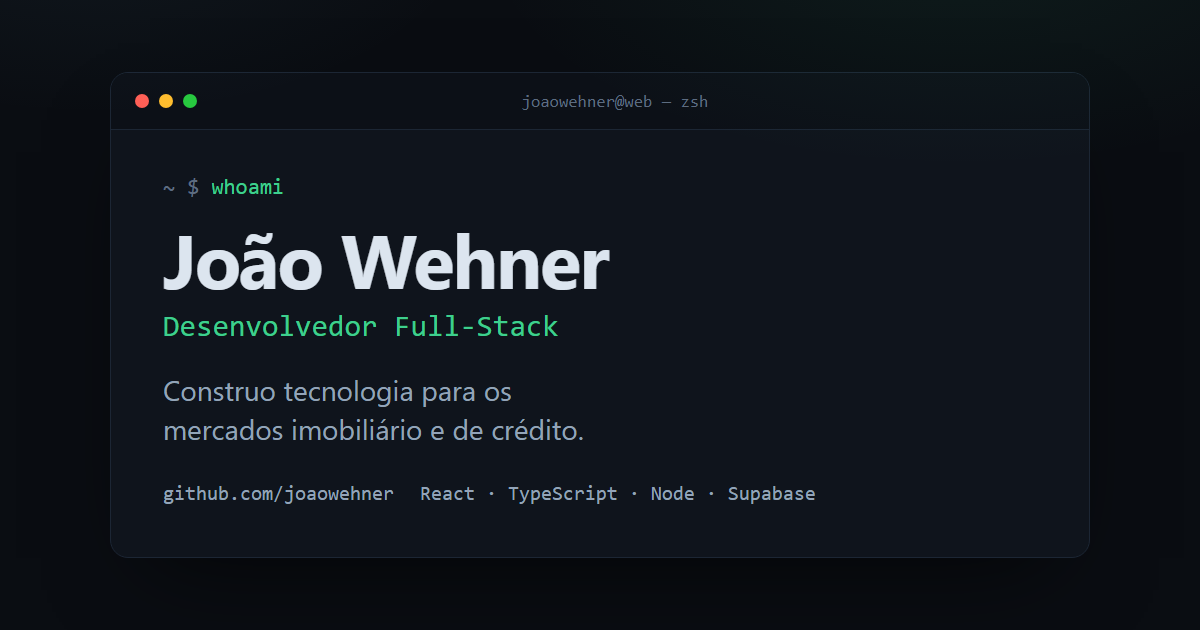
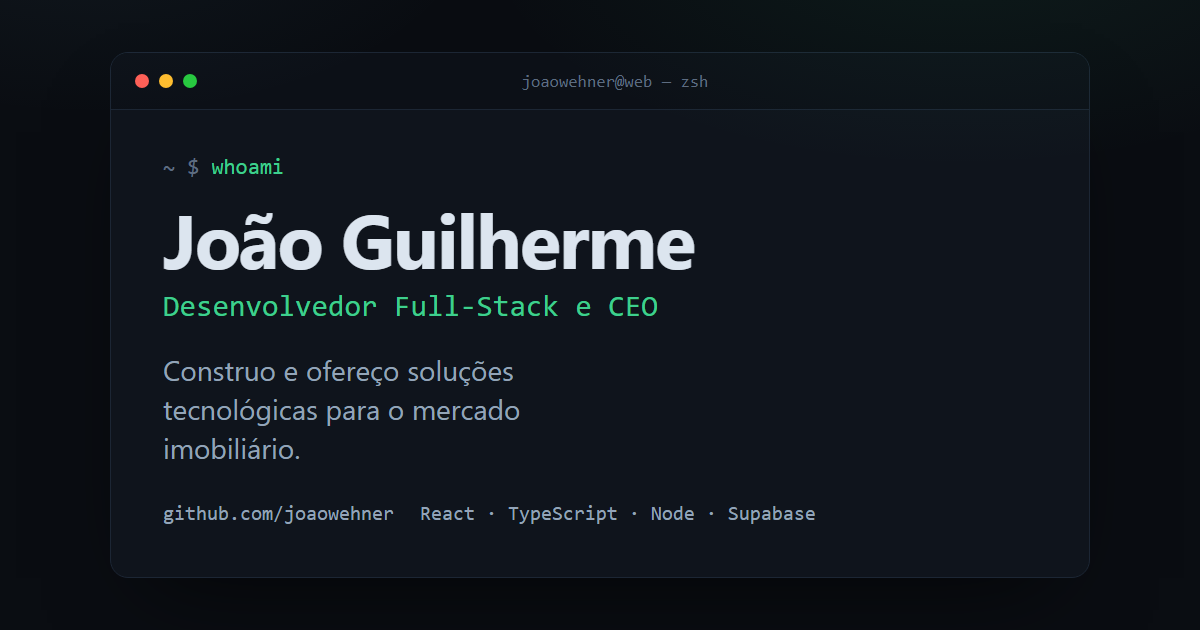
feat: reposiciona perfil como Co-CEO e adiciona contato por WhatsApp
Atualiza identidade para Joao Guilherme, Desenvolvedor Full-Stack e CEO,
com o Grupo Wehner ao lado da TSW no posicionamento, headline, metadados,
JSON-LD e imagem de compartilhamento.

Substitui o projeto TSW Decoracao pelo TSW CRM, marca este site como em
producao e reordena a stack conforme o uso real.

WhatsApp vira CTA primario da secao de contato, com o link centralizado em
profile.ts e refletido no comando contact do terminal.

diff --git a/src/data/profile.ts b/src/data/profile.ts
@@ -48,6 +48,8 @@ export interface Profile {
   company: { name: string; url: string }
   about: string[]
   email: string
+  /** Link wa.me completo; omita para esconder o CTA de WhatsApp */
+  whatsappUrl?: string
   social: SocialLink[]
   projects: Project[]
   stack: StackGroup[]
@@ -58,22 +60,23 @@ export interface Profile {
 export const profile: Profile = {
   brand: 'joaowehner',
   fullName: 'João Guilherme Wehner Ricartes',
-  displayName: 'João Wehner',
-  role: 'Desenvolvedor Full-Stack',
-  headline: 'Construo tecnologia para os mercados imobiliário e de crédito.',
+  displayName: 'João Guilherme',
+  role: 'Desenvolvedor Full-Stack e CEO',
+  headline: 'Construo e ofereço soluções tecnológicas para o mercado imobiliário.',
   subheadline:
-    'Sócio na TSW Soluções Inteligentes: os sites, as integrações e a automação de captação de leads da empresa passam pelas minhas mãos — do código ao deploy, com React, TypeScript e Node no dia a dia.',
+    'Sócio e Co-CEO no Grupo Wehner e na TSW Soluções Inteligentes. Lidero a operação e a tecnologia das empresas, cuidando dos sites, das integrações e da automação de leads, do código ao deploy com React, TypeScript e Node.',
   location: 'Campo Grande · MS, Brasil',
   company: {
     name: 'TSW Soluções Inteligentes',
     url: 'https://tswsolucoesinteligentes.com.br',
   },
   about: [
-    'Sou desenvolvedor full-stack e sócio da TSW Soluções Inteligentes, consultoria de negócios imobiliários e de crédito em Campo Grande. Ser sócio muda o jeito de programar: cada decisão técnica aqui também é uma decisão de negócio.',
-    'Na prática, isso significa dois sites em produção, uma integração que centraliza a captação de leads e fluxos de atendimento que estou automatizando com IA — tudo mantido de ponta a ponta por mim, do layout ao deploy.',
-    'Este site é parte do trabalho: construído do zero com React e TypeScript, sem template, com o código aberto no GitHub.',
+    'Sou desenvolvedor full-stack e Co-CEO na TSW Soluções Inteligentes e no Grupo Wehner, ecossistema de negócios e tecnologia imobiliária em Campo Grande. Liderar a operação muda o jeito de programar: cada decisão técnica aqui também é uma decisão de negócio.',
+    'Na prática, isso se traduz em sites em produção, integrações que centralizam a captação de leads e fluxos de atendimento automatizados com IA, tudo mantido de ponta a ponta por mim, do layout ao deploy.',
+    'Este site é parte desse ecossistema: construído do zero com React e TypeScript, sem template e com o código aberto no GitHub.',
   ],
   email: 'joaowehner@gmail.com',
+  whatsappUrl: 'https://wa.me/5567998575834',
   social: [
     {
       id: 'github',
@@ -119,7 +122,7 @@ export const profile: Profile = {
       tagline: 'O site da consultoria da qual sou sócio',
       description:
         'Presença digital da TSW: serviços, metodologia e captação de clientes para consultoria de negócios imobiliários, crédito e curadoria de investimentos.',
-      role: 'Desenvolvimento completo — do layout ao deploy',
+      role: 'Desenvolvimento completo, do layout ao deploy',
       tech: ['HTML', 'CSS', 'JavaScript', 'Hostinger'],
       status: 'em produção',
       url: 'https://tswsolucoesinteligentes.com.br',
@@ -131,24 +134,23 @@ export const profile: Profile = {
       name: 'TSW Leads API Bridge',
       tagline: 'Captação de leads sem distribuição manual',
       description:
-        'Integração em Node que centraliza leads do site, de formulários e de campanhas e os entrega direto ao fluxo comercial da TSW — o time recebe, ninguém redistribui na mão.',
+        'Integração em Node que centraliza leads do site, de formulários e de campanhas e os entrega direto ao fluxo comercial da TSW. O time recebe, ninguém redistribui na mão.',
       role: 'Arquitetura e implementação',
       tech: ['Node.js', 'JavaScript', 'APIs REST'],
       status: 'privado',
-      footerNote: 'código privado — detalhes sob conversa',
+      footerNote: 'código privado, detalhes sob conversa',
     },
     {
-      id: 'tsw-decoracao',
-      path: '~/projects/tsw-decoracao',
-      name: 'TSW Decoração',
-      tagline: 'Decoração estratégica e staging para valorização de imóveis',
+      id: 'tsw-crm',
+      path: '~/projects/tsw-crm',
+      name: 'TSW CRM',
+      tagline: 'CRM completo para a operação imobiliária da TSW',
       description:
-        'Site da vertical de decoração da TSW: projetos de interiores, curadoria de mobiliário e posicionamento de imóveis para venda, locação e temporada.',
-      role: 'Desenvolvimento completo — design, conteúdo e deploy',
-      tech: ['HTML', 'CSS', 'JavaScript', 'Vercel'],
+        'Sistema de gestão comercial sob medida para o Grupo Wehner: pipeline de vendas, acompanhamento de clientes, integração com captação de leads e automações internas.',
+      role: 'Arquitetura, desenvolvimento e produto',
+      tech: ['React', 'TypeScript', 'Node.js', 'Supabase'],
       status: 'em evolução',
-      url: 'https://tsw-decoracao-preview.vercel.app',
-      urlLabel: 'tsw-decoracao-preview.vercel.app',
+      footerNote: 'em desenvolvimento',
     },
     {
       id: 'joaowehner-site',
@@ -159,7 +161,7 @@ export const profile: Profile = {
         'Página única em React 19 + TypeScript strict, CSS autoral com design tokens e terminal interativo testado. Lighthouse 99·100·100·100 e deploy contínuo no GitHub Pages.',
       role: 'Design e desenvolvimento completos',
       tech: ['React', 'TypeScript', 'Vite', 'GitHub Actions'],
-      status: 'em evolução',
+      status: 'em produção',
       url: 'https://github.com/joaowehner/joaowehner.github.io',
       urlLabel: 'código no GitHub',
     },
@@ -169,13 +171,13 @@ export const profile: Profile = {
       id: 'principal',
       title: 'principal',
       note: 'uso diário',
-      items: ['TypeScript', 'React', 'Next.js', 'Node.js', 'Supabase'],
+      items: ['HTML & CSS', 'JavaScript', 'APIs REST', 'Git & GitHub', 'Vercel', 'Hostinger', 'Supabase'],
     },
     {
       id: 'pratica',
       title: 'experiência prática',
       note: 'ferramentas do trabalho real',
-      items: ['HTML & CSS', 'JavaScript', 'APIs REST', 'Git & GitHub', 'Vercel', 'Hostinger'],
+      items: ['TypeScript', 'React', 'Next.js', 'Node.js'],
     },
     {
       id: 'explorando',

diff --git a/index.html b/index.html
@@ -3,10 +3,10 @@
   <head>
     <meta charset="UTF-8" />
     <meta name="viewport" content="width=device-width, initial-scale=1.0" />
-    <title>joaowehner — Desenvolvedor Full-Stack</title>
+    <title>joaowehner — Desenvolvedor Full-Stack e CEO</title>
     <meta
       name="description"
-      content="João Wehner — desenvolvedor full-stack e sócio na TSW Soluções Inteligentes. React, Next.js, TypeScript, Node e Supabase aplicados aos mercados imobiliário e de crédito."
+      content="João Guilherme — Desenvolvedor Full-Stack e Co-CEO no Grupo Wehner e na TSW Soluções Inteligentes. Soluções tecnológicas para o mercado imobiliário com React, TypeScript e Node."
     />
     <link rel="icon" type="image/svg+xml" href="/favicon.svg" />
     <link rel="canonical" href="https://joaowehner.github.io/" />
@@ -14,18 +14,18 @@
 
     <meta property="og:type" content="website" />
     <meta property="og:url" content="https://joaowehner.github.io/" />
-    <meta property="og:title" content="joaowehner — Desenvolvedor Full-Stack" />
+    <meta property="og:title" content="joaowehner — Desenvolvedor Full-Stack e CEO" />
     <meta
       property="og:description"
-      content="Sócio na TSW Soluções Inteligentes. Construo tecnologia para os mercados imobiliário e de crédito com React, Next.js, TypeScript, Node e Supabase."
+      content="Sócio na TSW Soluções Inteligentes. Construo e ofereço soluções tecnológicas para o mercado imobiliário com React, Next.js, TypeScript, Node e Supabase."
     />
     <meta property="og:image" content="https://joaowehner.github.io/og.png" />
     <meta property="og:locale" content="pt_BR" />
     <meta name="twitter:card" content="summary_large_image" />
-    <meta name="twitter:title" content="joaowehner — Desenvolvedor Full-Stack" />
+    <meta name="twitter:title" content="joaowehner — Desenvolvedor Full-Stack e CEO" />
     <meta
       name="twitter:description"
-      content="Sócio na TSW Soluções Inteligentes. Construo tecnologia para os mercados imobiliário e de crédito."
+      content="Sócio na TSW Soluções Inteligentes. Construo e ofereço soluções tecnológicas para o mercado imobiliário."
     />
     <meta name="twitter:image" content="https://joaowehner.github.io/og.png" />
 
@@ -35,7 +35,7 @@
         "@type": "Person",
         "name": "João Guilherme Wehner Ricartes",
         "alternateName": "joaowehner",
-        "jobTitle": "Desenvolvedor Full-Stack",
+        "jobTitle": "Desenvolvedor Full-Stack e CEO",
         "url": "https://joaowehner.github.io/",
         "worksFor": {
           "@type": "Organization",

diff --git a/src/components/Contact.tsx b/src/components/Contact.tsx
@@ -3,8 +3,6 @@ import CopyButton from './CopyButton'
 import './Contact.css'
 
 export default function Contact() {
-  const linkedin = profile.social.find((s) => s.id === 'linkedin')
-
   return (
     <section className="section container" id="contato" aria-labelledby="contato-titulo">
       <div className="contact">
@@ -14,25 +12,25 @@ export default function Contact() {
         </header>
 
         <p className="contact__text">
-          Projeto, vaga, parceria ou uma ideia para automatizar? A caixa de entrada está aberta —
-          respondo mais rápido por e-mail ou LinkedIn.
+          Projeto, parceria ou uma ideia para automatizar? A caixa de entrada está aberta,
+          respondo mais rápido por WhatsApp ou e-mail.
         </p>
 
         <div className="contact__actions">
-          <a className="contact__cta" href={`mailto:${profile.email}`}>
-            enviar e-mail
-          </a>
-          <CopyButton value={profile.email} label={`copiar ${profile.email}`} />
-          {linkedin && (
+          {profile.whatsappUrl && (
             <a
-              className="contact__secondary"
-              href={linkedin.url}
+              className="contact__cta"
+              href={profile.whatsappUrl}
               target="_blank"
               rel="noopener noreferrer"
             >
-              LinkedIn ↗
+              WhatsApp
             </a>
           )}
+          <a className="contact__secondary" href={`mailto:${profile.email}`}>
+            enviar e-mail
+          </a>
+          <CopyButton value={profile.email} label={`copiar ${profile.email}`} />
         </div>
       </div>
     </section>

diff --git a/src/terminal/commands.ts b/src/terminal/commands.ts
@@ -63,7 +63,7 @@ export const commands: TerminalCommand[] = [
     run: (p) => ({
       lines: [
         { text: p.displayName, kind: 'title' },
-        { text: `${p.role} · sócio na ${p.company.name}`, kind: 'out' },
+        { text: `${p.role} · Co-CEO no Grupo Wehner e na ${p.company.name}`, kind: 'out' },
         { text: p.location, kind: 'muted' },
       ],
     }),
@@ -124,6 +124,7 @@ export const commands: TerminalCommand[] = [
     description: 'formas de contato',
     run: (p) => ({
       lines: [
+        ...(p.whatsappUrl ? [{ text: 'whatsapp: link na seção contato', kind: 'out' as LineKind }] : []),
         { text: `e-mail: ${p.email}`, kind: 'out' },
         { text: 'navegando até #contato…', kind: 'muted' },
       ],

diff --git a/src/components/Footer.tsx b/src/components/Footer.tsx
@@ -11,7 +11,7 @@ export default function Footer() {
           <span className="footer__prompt" aria-hidden="true">
             ❯
           </span>
-          {profile.brand} — {year}
+          {profile.brand} &copy; {year}
         </p>
         <p className="footer__item footer__item--muted">
           React · TypeScript · Vite · CSS autoral
@@ -24,7 +24,9 @@ export default function Footer() {
             </>
           )}
         </p>
-        <p className="footer__item footer__item--muted">feito em {profile.location}</p>
+        <p className="footer__item footer__item--muted">
+          Disponível para projetos e parcerias imobiliárias
+        </p>
       </div>
     </footer>
   )

diff --git a/docs/content-strategy.md b/docs/content-strategy.md
@@ -14,7 +14,7 @@ uma demonstração de trabalho.
 
 ## Posicionamento
 
-> Desenvolvedor Full-Stack e sócio na TSW Soluções Inteligentes —
+> Desenvolvedor Full-Stack e Co-CEO no Grupo Wehner e na TSW Soluções Inteligentes —
 > constrói tecnologia para os mercados imobiliário e de crédito.
 
 O posicionamento veio da **headline do próprio LinkedIn** do João, que é específica e
@@ -31,12 +31,12 @@ real (imobiliário + crédito). Essa concretude é o diferencial — nada de fra
 
 | Elemento | Texto |
 |---|---|
-| Headline (H1 visual) | João Wehner — Desenvolvedor Full-Stack |
-| Frase de impacto | "Construo tecnologia para os mercados imobiliário e de crédito." |
-| Subheadline | Sócio na TSW Soluções Inteligentes. React, Next.js, TypeScript, Node e Supabase — com sites, integrações e automação de leads rodando em produção. |
+| Headline (H1 visual) | João Guilherme — Desenvolvedor Full-Stack |
+| Frase de impacto | "Construo e ofereço soluções tecnológicas para o mercado imobiliário." |
+| Subheadline | Sócio e Co-CEO no Grupo Wehner e na TSW Soluções Inteligentes. Lidero a operação e a tecnologia das empresas, cuidando dos sites, das integrações e da automação de leads, do código ao deploy com React, TypeScript e Node. |
 | CTA primário | Ver projetos |
 | CTA secundário | GitHub ↗ / LinkedIn ↗ |
-| CTA de contato | enviar e-mail / copiar e-mail |
+| CTA de contato | WhatsApp / enviar e-mail / copiar e-mail |
 
 ## Tom
 
@@ -47,7 +47,7 @@ Proibidos: "apaixonado por tecnologia", "transformando ideias em realidade" e af
 
 1. Hero (identidade + posicionamento + terminal)
 2. Sobre (contexto: quem, onde, o quê)
-3. Projetos (prova: 3 projetos reais da TSW)
+3. Projetos (prova: 4 projetos reais da TSW/Grupo Wehner)
 4. Stack (competências em 3 níveis honestos: principal / prática / explorando)
 5. Links (função link-in-bio)
 6. Contato (conversão)
@@ -60,8 +60,8 @@ Proibidos: "apaixonado por tecnologia", "transformando ideias em realidade" e af
 | Marca "joaowehner" | resposta do João | confirmada |
 | Headline/posicionamento | LinkedIn (perfil próprio) | confirmada |
 | Localização Campo Grande·MS | LinkedIn + Instagram | confirmada |
-| Sócio na TSW | LinkedIn | confirmada |
-| Projetos TSW (site, decoração, leads bridge) | repositórios GitHub + deploys públicos | confirmada (detalhes a validar com João) |
+| Sócio e Co-CEO | LinkedIn | confirmada |
+| Projetos TSW (site, leads bridge, CRM) | repositórios GitHub + deploys públicos | confirmada (detalhes a validar com João) |
 | Stack principal | headline do LinkedIn | confirmada |
 | "IA aplicada" | Instagram ("Consultor de IA Júnior") | provável — divergência com LinkedIn anotada |
 | Python (explorando) | mencionado no briefing inicial | provável — sem evidência pública |

diff --git a/README.md b/README.md
@@ -1,6 +1,6 @@
 # joaowehner — site pessoal
 
-Mini-site pessoal de João Wehner: portfólio, apresentação profissional, central de
+Mini-site pessoal de João Guilherme: portfólio, apresentação profissional, central de
 links e cartão de visitas digital em estética de terminal editorial.
 
 - **Referência visual**: interpretação autoral inspirada em <https://superdesign.dev/library/terminal>
@@ -85,7 +85,7 @@ Para publicar como site de projeto (`joaowehner.github.io/<repo>`), defina
 ### Checklist antes de publicar
 
 - [ ] Confirmar publicação do e-mail pessoal no site
-- [ ] Validar textos dos 3 projetos TSW
+- [ ] Validar textos dos 4 projetos TSW
 - [ ] Conferir `siteUrl` em `profile.ts` + canonical/OG no `index.html`
 - [ ] `npm run lint && npm run typecheck && npm test && npm run build` verdes
 - [ ] Testar `npm run preview` localmente
